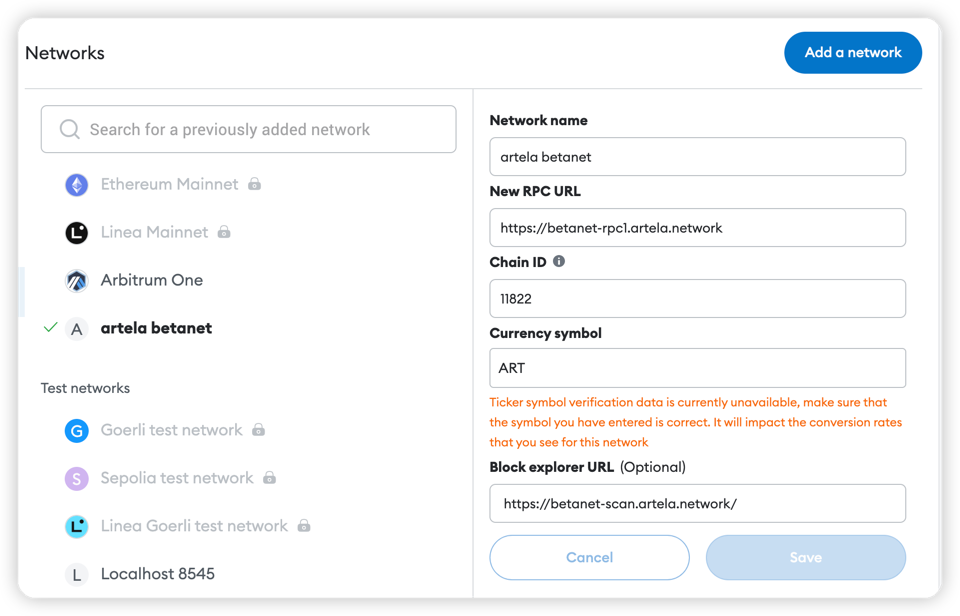
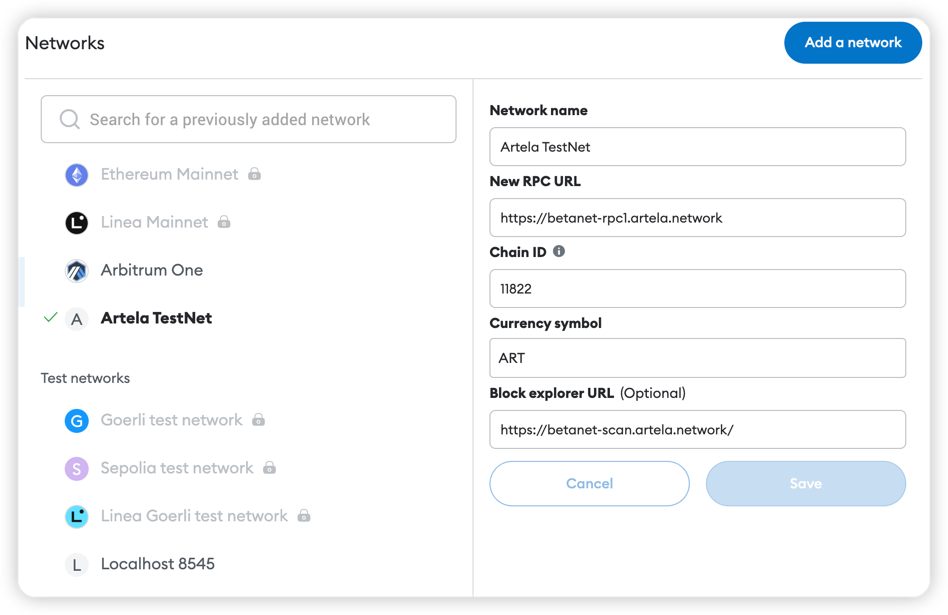
docs: update typo

diff --git a/docs/develop/guides/dev-contract/index.md b/docs/develop/guides/dev-contract/index.md
@@ -1,7 +1,7 @@
 
 # Develop with Remix
 
-In this tutorial, we'll walk you through the process of creating and deploying a smart contract on Artela Testnet using Remix and MetaMask.
+In this tutorial, we'll walk you through the process of creating and deploying a smart contract on Artela TestNet using Remix and MetaMask.
 
 ## Pre-requisites
 * [Metamask](https://metamask.io/)
@@ -37,12 +37,12 @@ contract MyCollectible is ERC721 {
 }
 ```
 
-## 2. Remix: Connect to Artela Testnet and Deploy
+## 2. Remix: Connect to Artela TestNet and Deploy
 
 Connecting Remix to MetaMask and deploying your smart contract involves a few straightforward steps:
 
-* Configure MetaMask for Artela Testnet:
-  * Open MetaMask and ensure that you are connected to the Artela Testnet. If Artela Testnet is not listed, you may need to add it manually. [Navigate to the network settings and input the Artela Testnet details.](/develop/guides/wallet-configuration)
+* Configure MetaMask for Artela TestNet:
+  * Open MetaMask and ensure that you are connected to the Artela TestNet. If Artela TestNet is not listed, you may need to add it manually. [Navigate to the network settings and input the Artela TestNet details.](/develop/guides/wallet-configuration)
 * Connect Remix to MetaMask 
   * At Remix, on the left side, Click the button `Deploy and run transactions`. Set up the ENVIRONMENT is `Injected Provider - MetaMask[2]`
 * Deploy Your Smart Contract
@@ -57,9 +57,9 @@ Connecting Remix to MetaMask and deploying your smart contract involves a few st
 
 ## 3. Block Explorer
 
-Confirm the successful deployment on Artela Testnet [blockchain explorer](https://betanet-scan.artela.network/) using `transaction hash` in output.
+Confirm the successful deployment on Artela TestNet [blockchain explorer](https://betanet-scan.artela.network/) using `transaction hash` in output.
 
 
 ![img_3.png](img_3.png)
 
-Congratulations! You've successfully created and deployed a smart contract on Artela Testnet. Happy coding!
+Congratulations! You've successfully created and deployed a smart contract on Artela TestNet. Happy coding!

diff --git a/docs/develop/get-started/storage-contract/index.md b/docs/develop/get-started/storage-contract/index.md
@@ -5,7 +5,7 @@ sidebar_position: 1
 # Develop a Smart Contract
 
 ## Intro
-Below is an example that use [@artela/aspect-tool](/develop/reference/aspect-tool/overview) to deploy storage contract to Artela Testnet.
+Below is an example that use [@artela/aspect-tool](/develop/reference/aspect-tool/overview) to deploy storage contract to Artela TestNet.
 
 **Pre-requisites:**
 * [Node.js](https://nodejs.org/)
@@ -182,6 +182,6 @@ npm run contract:call -- --contract {artToken-address}  \
 
 ### 5.2 Check transaction
 
-Confirm the successful on Artela Testnet [blockchain explorer](https://betanet-scan.artela.network/) using `transaction hash` in output.
+Confirm the successful on Artela TestNet [blockchain explorer](https://betanet-scan.artela.network/) using `transaction hash` in output.
 
 ![img.png](img.png)

diff --git a/docs/develop/guides/wallet-configuration/index.md b/docs/develop/guides/wallet-configuration/index.md
@@ -20,7 +20,7 @@ for detailed instructions.
 chick  `Networks` > `Add a network` > `Add a network manually`
 
 ```
-Network Name : artela betanet
+Network Name : Artela TestNet
 New RPC URL : https://betanet-rpc1.artela.network
 ChainID (optional): 11822
 Symbol (optional) : ART
@@ -35,8 +35,8 @@ Ensure all fields are correctly filled:
 
 ## 3. Access TestNet Faucet
 
-Join Artela [Discord server](https://discord.com/invite/artela) to access the Testnet ART faucet.
-Request access and obtain Testnet ART with your wallet address.
+Join Artela [Discord server](https://discord.com/invite/artela) to access the TestNet ART faucet.
+Request access and obtain TestNet ART with your wallet address.
 
 ```shell
 $request {address}

diff --git a/docs/develop/guides/erc20-contract/index.md b/docs/develop/guides/erc20-contract/index.md
@@ -228,6 +228,6 @@ npm run contract:send   -- --skfile ./tokenPk.txt
 
 ### 5.2 Check transaction
 
-Confirm the successful `transfer` on Artela Testnet [blockchain explorer](https://testnet-scan.artela.network/) using `transaction hash` in output. 
+Confirm the successful `transfer` on Artela TestNet [blockchain explorer](https://testnet-scan.artela.network/) using `transaction hash` in output. 
 
 ![img.png](img.png)

diff --git a/docs/develop/node/run-full-node/index.md b/docs/develop/node/run-full-node/index.md
@@ -4,7 +4,7 @@ sidebar_position: 1
 
 # Run a full node
 
-This document provides an introduction to joining the Artela Testnet as a full node.
+This document provides an introduction to joining the Artela TestNet as a full node.
 > It is recommended to use `ubuntu` operating system.
 
 **Hardware Recommended Requirements:**

diff --git a/docs/develop/node/access-testnet/index.md b/docs/develop/node/access-testnet/index.md
@@ -21,7 +21,7 @@ Once you've initiated the node, connect to the JSON-RPC port service here:
 ### 1. Basic Info
 
 ```
-Network Name : Artela Testnet
+Network Name : Artela TestNet
 New RPC URL : https://betanet-rpc1.artela.network
 ChainID (optional): 11822
 Symbol (optional) : ART
